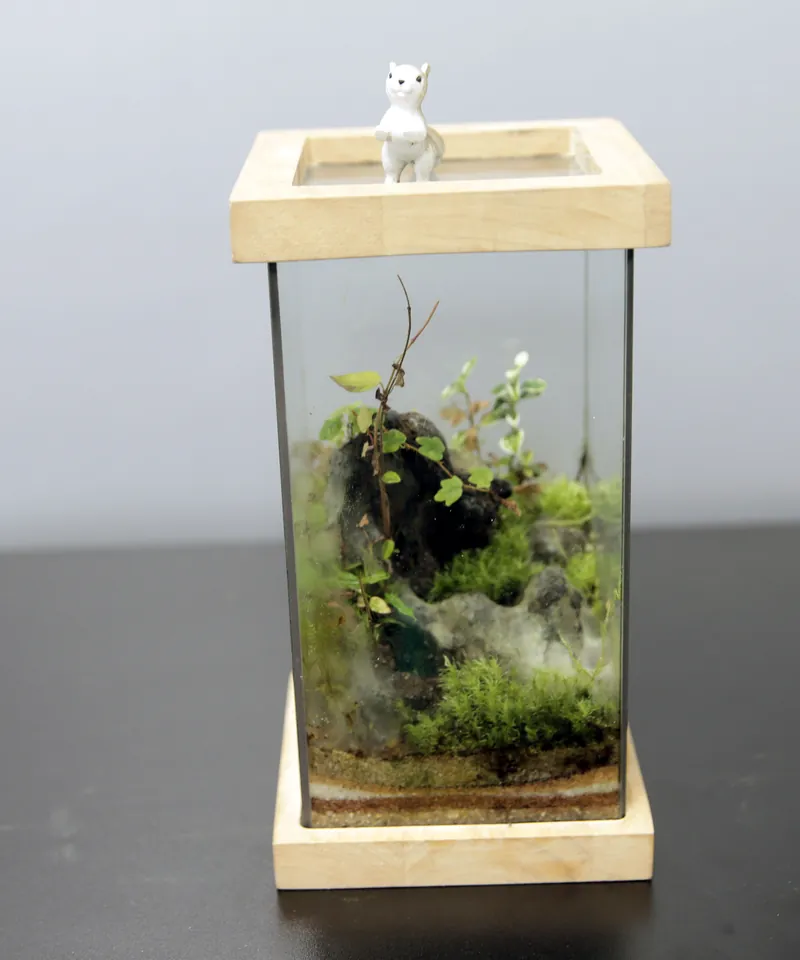
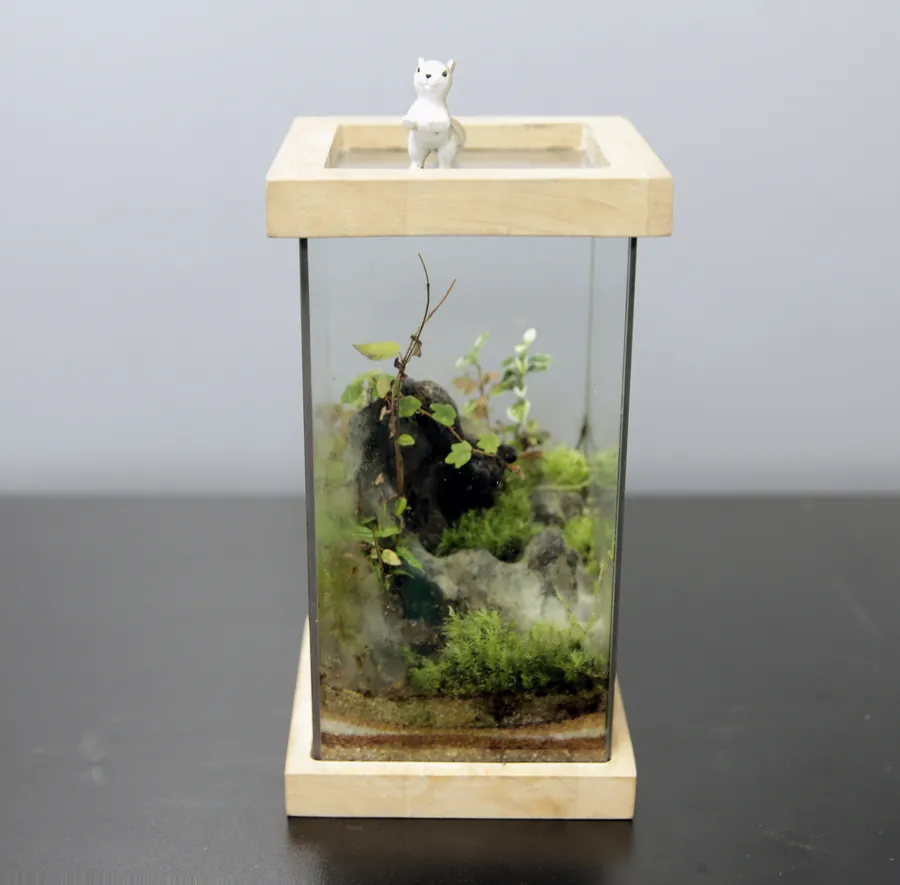
feat(public): refine terrarium photo framing and add styling gallery

Changed region(s): [[0.2812, 0.061, 1.0, 1.0], [0.0, 0.5492, 0.2188, 0.5797]]

diff --git a/terrarium.html b/terrarium.html
@@ -57,7 +57,7 @@
       </figure>
     </div>
   </section>
-  <nav class="th-jumpnav" aria-label="테라리움 소개 바로가기"><div class="container"><a href="#th-discover">테라리움이란</a><a href="#th-make">만드는 경험</a><a href="#th-current">태장 이야기</a><a href="#th-gallery">갤러리</a><a href="#th-next">상품·클래스</a><a href="#th-care">관리와 궁금증</a></div></nav>
+  <nav class="th-jumpnav" aria-label="테라리움 소개 바로가기"><div class="container"><a href="#th-discover">테라리움이란</a><a href="#th-make">만드는 경험</a><a href="#th-current">태장 이야기</a><a href="#th-gallery">작품 갤러리</a><a href="#th-next">상품·클래스</a><a href="#th-care">관리와 궁금증</a></div></nav>
   <section class="th-discover th-section" id="th-discover" aria-labelledby="th-discover-title">
     <div class="container">
       <div class="th-section-heading"><h2 id="th-discover-title">테라리움은<br><em>투명한 용기 속 작은 정원</em>입니다.</h2><p>살아 있는 식물과 이끼, 흙과 돌을 어우러지게 담아요.<br>풍경을 꾸미고, 식물이 자라는 모습을 가까이에서 관찰하는 즐거움입니다.</p></div>
@@ -68,7 +68,7 @@
               <img src="assets/images/terrarium/product-03-glass.webp" width="700" height="600" alt="다각형 유리 용기에 높낮이가 다른 돌과 식물을 배치한 테라리움" loading="lazy" decoding="async">
               <figcaption>다각형 유리와 돌의 지형</figcaption>
             </figure>
-            <figure data-terrarium-media="anatomy-moss">
+            <figure id="th-moss-photo" data-terrarium-media="anatomy-moss">
               <img src="assets/images/terrarium/product-05-moss.webp" width="700" height="600" alt="원통형 유리 용기 옆면으로 흙과 이끼 층이 보이는 테라리움" loading="lazy" decoding="async">
               <figcaption>원통형 유리 속 이끼와 흙</figcaption>
             </figure>
@@ -106,31 +106,53 @@
   </section>
   <section class="th-gallery-section th-section" id="th-gallery" aria-labelledby="th-gallery-title">
     <div class="container">
-      <div class="th-section-heading th-heading-inline"><div><h2 id="th-gallery-title">같은 초록도,<br>서로 다른 풍경이 됩니다.</h2></div><p>태장이 촬영한 테라리움 작품입니다.<br>사진을 선택하면 크게 볼 수 있습니다.</p></div>
+      <div class="th-section-heading th-heading-inline"><div><h2 id="th-gallery-title">테라리움 작품 갤러리</h2></div><p>태장에서 촬영한 작품을 한눈에 둘러보세요.<br>사진을 선택하면 크게 볼 수 있습니다. <a class="th-gallery-jump" href="#th-styling">공간 연출 보기 <span aria-hidden="true">↓</span></a></p></div>
       <div class="th-gallery">
-        <figure class="th-gallery-item" data-terrarium-media="gallery-01">
-          <a href="assets/images/terrarium/product-01-wood.webp" aria-label="목재 프레임의 작은 숲 사진 크게 보기"><img src="assets/images/terrarium/product-01-wood.webp" width="800" height="960" alt="목재 뚜껑과 받침이 있는 사각 유리 용기 속 식물과 돌" loading="lazy" decoding="async"></a>
+        <figure class="th-gallery-item" id="th-wood-photo" data-terrarium-media="gallery-01">
+          <a href="assets/images/terrarium/product-01-wood.webp" aria-label="목재 프레임의 작은 숲 사진 크게 보기"><img src="assets/images/terrarium/product-01-wood.webp" width="900" height="885" alt="목재 뚜껑과 받침이 있는 사각 유리 용기 속 식물과 돌" loading="lazy" decoding="async"></a>
           <figcaption>목재 프레임의 작은 숲</figcaption>
         </figure>
         <figure class="th-gallery-item" data-terrarium-media="gallery-04">
-          <a href="assets/images/terrarium/product-04-dome.webp" aria-label="유리 돔 속 정원 사진 크게 보기"><img src="assets/images/terrarium/product-04-dome.webp" width="800" height="960" alt="손잡이 달린 유리 돔 안에 이끼와 잎이 섬세한 식물" loading="lazy" decoding="async"></a>
+          <a href="assets/images/terrarium/product-04-dome.webp" aria-label="유리 돔 속 정원 사진 크게 보기"><img src="assets/images/terrarium/product-04-dome.webp" width="754" height="900" alt="손잡이 달린 유리 돔 안에 이끼와 잎이 섬세한 식물" loading="lazy" decoding="async"></a>
           <figcaption>유리 돔 속 정원</figcaption>
         </figure>
         <figure class="th-gallery-item" data-terrarium-media="gallery-02">
-          <a href="assets/images/terrarium/product-02-round.webp" aria-label="둥근 유리 속 이끼 정원 사진 크게 보기"><img src="assets/images/terrarium/product-02-round.webp" width="800" height="960" alt="둥근 유리 용기에 담긴 푸른 이끼와 자연 소재" loading="lazy" decoding="async"></a>
+          <a href="assets/images/terrarium/product-02-round.webp" aria-label="둥근 유리 속 이끼 정원 사진 크게 보기"><img src="assets/images/terrarium/product-02-round.webp" width="900" height="900" alt="둥근 유리 용기에 담긴 푸른 이끼와 자연 소재" loading="lazy" decoding="async"></a>
           <figcaption>둥근 유리 속 이끼 정원</figcaption>
         </figure>
         <figure class="th-gallery-item" data-terrarium-media="gallery-10">
-          <a href="assets/images/terrarium/product-10-sand.webp" aria-label="층층이 쌓은 모래 사진 크게 보기"><img src="assets/images/terrarium/product-10-sand.webp" width="1000" height="800" alt="둥근 유리볼에 줄무늬처럼 쌓은 모래와 선인장" loading="lazy" decoding="async"></a>
+          <a href="assets/images/terrarium/product-10-sand.webp" aria-label="층층이 쌓은 모래 사진 크게 보기"><img src="assets/images/terrarium/product-10-sand.webp" width="900" height="871" alt="둥근 유리볼에 줄무늬처럼 쌓은 모래와 선인장" loading="lazy" decoding="async"></a>
           <figcaption>층층이 쌓은 모래</figcaption>
         </figure>
         <figure class="th-gallery-item" data-terrarium-media="gallery-13">
-          <a href="assets/images/terrarium/product-13-stone.webp" aria-label="흰 돌로 만든 지형 사진 크게 보기"><img src="assets/images/terrarium/product-13-stone.webp" width="1000" height="800" alt="둥근 유리 용기에 흰 돌과 짙은 초록 식물로 만든 풍경" loading="lazy" decoding="async"></a>
+          <a href="assets/images/terrarium/product-13-stone.webp" aria-label="흰 돌로 만든 지형 사진 크게 보기"><img src="assets/images/terrarium/product-13-stone.webp" width="900" height="771" alt="둥근 유리 용기에 흰 돌과 짙은 초록 식물로 만든 풍경" loading="lazy" decoding="async"></a>
           <figcaption>흰 돌로 만든 지형</figcaption>
         </figure>
         <figure class="th-gallery-item" data-terrarium-media="gallery-15">
-          <a href="assets/images/terrarium/product-15-landscape.webp" aria-label="푸른 층을 담은 유리 상자 사진 크게 보기"><img src="assets/images/terrarium/product-15-landscape.webp" width="1000" height="800" alt="직사각 유리 용기에 푸른색 층과 돌, 작은 식물을 배치한 풍경" loading="lazy" decoding="async"></a>
+          <a href="assets/images/terrarium/product-15-landscape.webp" aria-label="푸른 층을 담은 유리 상자 사진 크게 보기"><img src="assets/images/terrarium/product-15-landscape.webp" width="900" height="788" alt="직사각 유리 용기에 푸른색 층과 돌, 작은 식물을 배치한 풍경" loading="lazy" decoding="async"></a>
           <figcaption>푸른 층을 담은 유리 상자</figcaption>
+        </figure>
+      </div>
+    </div>
+  </section>
+  <section class="th-styling th-section" id="th-styling" aria-labelledby="th-styling-title">
+    <div class="container">
+      <div class="th-section-heading th-heading-inline">
+        <div><h2 id="th-styling-title">공간에 놓인 작은 숲</h2></div>
+        <p>태장 작품을 책상, 창가, 거실에 두었을 때의 모습을 그려봤습니다. 배경과 소품은 연출용입니다.</p>
+      </div>
+      <div class="th-styling-grid">
+        <figure class="th-styling-card">
+          <img src="assets/images/terrarium/styling-reading-desk.webp" width="1080" height="720" alt="밝은 목재 책상에 테라리움과 책을 곁들인 연출 예시" loading="lazy" decoding="async">
+          <figcaption><span>콘셉트 이미지</span><h3>책상 위 작은 정원</h3><a class="th-text-link" href="#th-wood-photo" aria-label="목재 프레임의 작은 숲 실제 사진 보기">작품 사진 보기 <span aria-hidden="true">↗</span></a></figcaption>
+        </figure>
+        <figure class="th-styling-card">
+          <img src="assets/images/terrarium/styling-window.webp" width="1080" height="720" alt="은은한 빛이 들어오는 창가에 원통형 테라리움과 찻잔을 놓은 연출 예시" loading="lazy" decoding="async">
+          <figcaption><span>콘셉트 이미지</span><h3>부드러운 빛이 드는 창가</h3><a class="th-text-link" href="#th-moss-photo" aria-label="원통형 유리 속 이끼와 흙 실제 사진 보기">작품 사진 보기 <span aria-hidden="true">↗</span></a></figcaption>
+        </figure>
+        <figure class="th-styling-card">
+          <img src="assets/images/terrarium/styling-console.webp" width="1080" height="720" alt="거실 콘솔에 가로형 유목 테라리움과 작은 도자기를 놓은 연출 예시" loading="lazy" decoding="async">
+          <figcaption><span>콘셉트 이미지</span><h3>거실을 채우는 유목 풍경</h3><a class="th-text-link" href="#th-heading" aria-label="유목과 이끼가 담긴 대표 작품 실제 사진 보기">작품 사진 보기 <span aria-hidden="true">↗</span></a></figcaption>
         </figure>
       </div>
     </div>

diff --git a/assets/css/terrarium.css b/assets/css/terrarium.css
@@ -82,8 +82,8 @@
 .th-story-copy .th-text-link{color:#f4f8ec;margin-top:15px}
 .th-gallery{display:grid;grid-template-columns:repeat(3,minmax(0,1fr));gap:28px 20px}
 .th-gallery-item{min-width:0}
-.th-gallery-item a{display:block;border-radius:5px;background:#ecf0e5;overflow:hidden;cursor:zoom-in}
-.th-gallery-item img{width:100%;height:auto}
+.th-gallery-item a{display:grid;grid-template: minmax(0,1fr) / minmax(0,1fr);place-items:center;aspect-ratio:1;padding:6%;border-radius:5px;background:#eeede6;overflow:hidden;cursor:zoom-in}
+.th-gallery-item img{width:100%;height:100%;min-height:0;object-fit:contain;object-position:center}
 .th-gallery-item figcaption{font:700 16px/1.65 var(--myeongjo);padding-top:13px}
 .th-next{background:#eff3e9;padding:80px 0}
 .th-next-grid{display:grid;grid-template-columns:repeat(4,minmax(0,1fr));gap:17px}
@@ -130,3 +130,17 @@
 @media(max-width:760px){.th-section,.th-next{padding:55px 0}.th-hero-grid{grid-template-columns:minmax(0,1fr);min-height:0;padding:30px 0;gap:24px}.th-hero h1{font-size:clamp(31px,7.5vw,45px)}.terrarium-hub .th-intro{font-size:14px;margin-top:18px}.th-hero-actions{gap:8px 18px;margin-top:22px}.th-hero-actions .th-button{font-size:13px;padding:12px 16px;gap:16px}.th-hero-actions .th-text-link{font-size:13px}.th-hero-keywords{margin-top:22px;padding-top:16px;gap:8px 15px}.th-hero-keywords span{font-size:11px}.th-jumpnav>.container{justify-content:flex-start;gap:18px}.th-jumpnav a{font-size:12px}.th-section-heading{margin-bottom:27px}.th-section-heading h2{font-size:28px}.th-section-heading>p:last-child{font-size:14px}.th-heading-inline{display:block}.th-heading-inline>p:last-child{margin:15px 0 0;max-width:none}.th-discover-grid{grid-template-columns:1fr;gap:25px}.th-types{grid-template-columns:1fr 1fr;gap:14px}.th-types article{display:block;border:1px solid var(--th-line);border-radius:5px;padding:18px 13px!important}.th-types article>.th-icon{width:48px;height:48px;margin-bottom:12px}.th-types h3{font-size:15px}.th-types article p{font-size:13px}.th-types .th-small-note{grid-column:1/-1;margin:0}.th-water-story{display:block;padding:19px}.th-water-story>div{font-size:13px}.th-water-story>p{margin-top:12px;gap:8px;font-size:12px}.th-process{grid-template-columns:repeat(2,minmax(0,1fr));gap:25px 16px}.th-step-art{height:130px}.th-step h3{font-size:21px;margin-top:12px}.th-step p{font-size:13px}.th-story-grid{grid-template-columns:1fr;gap:34px}.th-story-visual{max-width:360px;margin:0 auto;width:100%}.th-story-window{max-height:320px}.th-story-window img{max-height:320px}.th-story-copy h2{font-size:28px}.th-story-copy>p:not(.th-eyebrow){margin-top:18px}.th-story-points{margin-top:22px}.th-desktop-break{display:none}.th-gallery{grid-template-columns:repeat(2,minmax(0,1fr));gap:22px 14px}.th-gallery-item figcaption{font-size:14px;padding-top:10px}.th-next-grid{gap:15px}.th-service-art{height:130px}.th-service-art .th-icon{width:57px;height:57px}.th-service-art>span{font-size:8px}.th-service-copy{padding:18px 13px}.th-next-card h3{font-size:19px;margin:12px 0 10px}.th-next-card p{font-size:13px}.th-service-tags{font-size:10px}.th-next-footer{font-size:10px;padding-top:16px}.th-care-grid{grid-template-columns:1fr;gap:0}.th-care-grid article{padding:19px 0}.th-care-grid h3{margin-bottom:5px}.th-care .th-small-note{margin-top:6px}.th-faq{margin-top:23px}.th-contact{padding:45px 0}.th-contact-inner{grid-template-columns:1fr;gap:27px}.th-contact h2{font-size:28px}.th-contact .th-eyebrow{font-size:9px}.th-contact-actions{gap:12px}}
 @media(max-width:359px){.th-next-grid{grid-template-columns:1fr}.th-next-card{display:grid;grid-template-columns:96px 1fr}.th-service-art{height:100%}.th-service-art>span{display:none}.th-service-copy{padding:17px 13px}.th-materials{grid-template-columns:1fr;gap:9px}.th-materials p{display:flex;align-items:baseline;gap:8px}.th-materials strong{font-size:13px;margin:0}.th-hero-keywords{gap:9px}.th-hero-keywords span{font-size:10px}.th-hero-keywords .th-icon{width:18px}.th-types{grid-template-columns:1fr}.th-types article{display:flex;gap:15px;align-items:center}}
 @media(prefers-reduced-motion:reduce){html{scroll-behavior:auto}.terrarium-hub *{scroll-behavior:auto!important}}
+
+.th-gallery-jump{display:inline-block;text-decoration:underline;text-underline-offset:4px;color:var(--th-forest)}
+.th-hero h1,.th-anatomy-photos figure,.th-gallery-item{scroll-margin-top:100px}
+.th-styling{background:var(--th-paper)}
+.th-styling-grid{display:grid;grid-template-columns:repeat(3,minmax(0,1fr));gap:20px}
+.th-styling-card{min-width:0;overflow:hidden;background:#fff;border:1px solid #e3e3d7;border-radius:6px}
+.th-styling-card img{display:block;width:100%;height:auto;aspect-ratio:3/2}
+.th-styling-card figcaption{padding:17px 20px 12px}
+.th-styling-card figcaption>span{display:block;margin-bottom:6px;font-size:11px;font-weight:700;color:var(--th-muted)}
+.th-styling-card h3{font:700 21px/1.5 var(--myeongjo);word-break:keep-all}
+.th-styling-card .th-text-link{font-size:12px}
+@media(max-width:760px){
+  .th-styling-grid{grid-template-columns:minmax(0,1fr);gap:18px}
+}

diff --git a/tests/terrarium-hub.test.js b/tests/terrarium-hub.test.js
@@ -79,12 +79,32 @@ test('gallery links open the same local images and the activity image remains an
   const gallery = landing.match(/<section class="th-gallery-section th-section"[\s\S]*?<\/section>/)?.[0] || '';
   const links = [...gallery.matchAll(/<a href="([^"]+)" aria-label="[^"]+ 사진 크게 보기"><img src="\1"/g)];
   assert.equal(links.length, 6);
+  assert.match(styles, /\.th-gallery-item a\{[^}]*aspect-ratio:1/);
+  assert.match(styles, /\.th-gallery-item img\{[^}]*object-fit:contain/);
   assert.match(landing, /data-terrarium-media="activity"[\s\S]*?terrarium-workbench\.svg[\s\S]*?<figcaption>제작 활동을 표현한 일러스트<\/figcaption>/);
   const svg = read('assets/images/terrarium/terrarium-workbench.svg');
   assert.match(svg, /<title>/);
   assert.doesNotMatch(svg, /<script\b|<foreignObject\b|\bonload=|href="https?:/i);
   assert.ok(Buffer.byteLength(svg) < 20_000);
   assert.doesNotMatch(landing, /300,000원|판매 중|무료 배송|당일 제작|실제 주문제작 후기/);
+});
+
+test('styled concepts are labeled, lazy-loaded and linked to the corresponding real works', () => {
+  const section = landing.match(/<section class="th-styling th-section"[^>]*>[\s\S]*?<\/section>/)?.[0] || '';
+  assert.match(section, /배경과 소품은 연출용입니다/);
+  assert.equal((section.match(/<span>콘셉트 이미지<\/span>/g) || []).length, 3);
+  const photos = [...section.matchAll(/<img src="(assets\/images\/terrarium\/styling-[^"]+\.webp)" width="1080" height="720" alt="[^"]+" loading="lazy" decoding="async">/g)];
+  assert.equal(photos.length, 3);
+  for (const [, asset] of photos) {
+    const file = fs.readFileSync(path.join(root, asset));
+    assert.equal(file.toString('ascii', 8, 12), 'WEBP', asset);
+    assert.ok(file.length < 100_000, asset);
+  }
+  for (const id of ['th-wood-photo', 'th-moss-photo', 'th-heading']) {
+    assert.ok(section.includes('href="#' + id + '"'), id);
+    assert.ok(landing.includes('id="' + id + '"'), id);
+  }
+  assert.match(landing, /href="#th-styling">공간 연출 보기/);
 });
 
 test('four future products and programs stay noninteractive until separately approved', () => {
